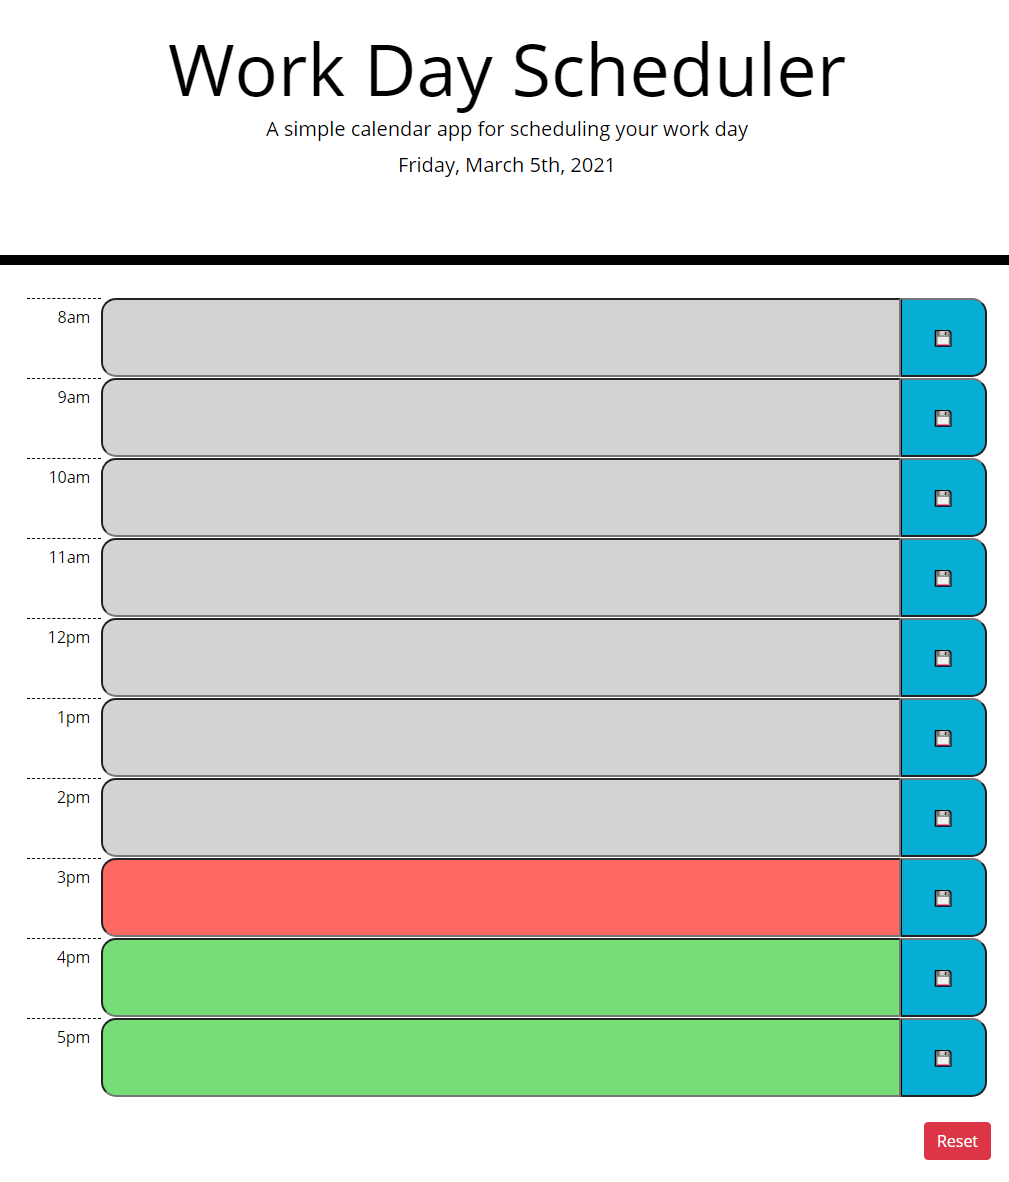
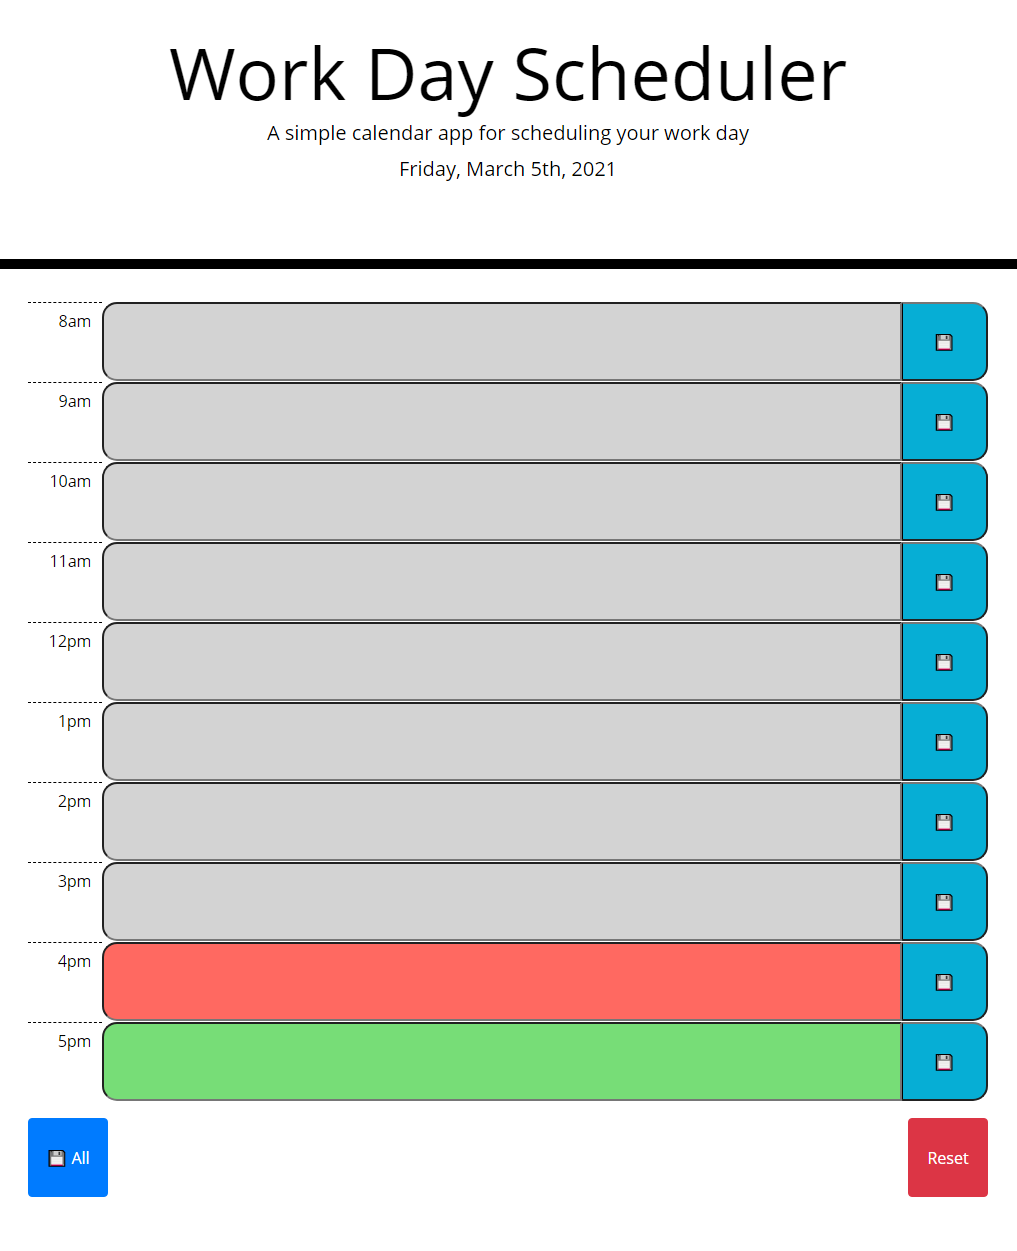
added save all button

Changed region(s): [[0.0, 0.1827, 1.0, 1.0], [0.1536, 0.0305, 0.8295, 0.1523]]

diff --git a/script.js b/script.js
@@ -1,4 +1,4 @@
-var $container = $('.container');
+var $container = $('#timeblock-container');
 //grabs saved schedule from local storage, or creates a new empty schedule
 var schedule = JSON.parse(localStorage.getItem('savedSchedule')) || [
     {
@@ -72,9 +72,9 @@ for (let i = 0; i < schedule.length; i++) {
     newRow.append($("<button>").addClass('saveBtn col').text("💾").attr('data-index', i));
 }
 
-$container.on('click', '.saveBtn', function(e){
-    var saved = $(e.target).siblings().eq(1).val();
-    correctIndex = $(e.target).attr('data-index');
+$container.on('click', '.saveBtn', function(){
+    var saved = $(this).siblings().eq(1).val();
+    var correctIndex = $(this).attr('data-index');
     schedule[correctIndex].appointment = saved;
     localStorage.setItem('savedSchedule', JSON.stringify(schedule))
 })
@@ -134,4 +134,12 @@ $('#reset-button').click(function(){
     ];
     localStorage.setItem('savedSchedule', JSON.stringify(schedule));
     location = location;
+})
+
+$('#save-button').click(function(){
+     var timeBlocks = $('.time-block');
+     for (let i = 0; i < timeBlocks.length; i++) {
+         schedule[i].appointment = timeBlocks[i].value;
+     }
+     localStorage.setItem('savedSchedule', JSON.stringify(schedule));
 })

diff --git a/index.html b/index.html
@@ -28,11 +28,18 @@
       <p class="lead">A simple calendar app for scheduling your work day</p>
       <p id="currentDay" class="lead"></p>
     </header>
-    <div class="container">
+    <div class="container" id="timeblock-container">
       <!-- Timeblocks go here -->
     </div>
 
-    <button id="reset-button" class="btn btn-danger">Reset</button>
+    <br>
+  
+    <div class="container">
+      <div class="row justify-content-between">
+        <button id="save-button" class="btn btn-primary col-1 custom-btn">💾 All</button>
+        <button id="reset-button" class="btn btn-danger col-1 custom-btn">Reset</button>
+      </div>
+    </div>
 
     <script src="https://cdnjs.cloudflare.com/ajax/libs/jquery/3.2.1/jquery.min.js"></script>
     <script src="https://cdnjs.cloudflare.com/ajax/libs/moment.js/2.24.0/moment.min.js"></script>

diff --git a/style.css b/style.css
@@ -71,8 +71,3 @@ textarea{
   font-size: 20px;
   transition: all .3s ease-in-out;
 }
-
-#reset-button {
-  float: right;
-  margin: 25px;
-}

diff --git a/README.md b/README.md
@@ -16,7 +16,7 @@ Using the data from moment.js, the page will color code each row's input area (g
 
 When the user types in an appointment in the input area and then clicks the save icon, the appointment will then stored in local storage to persit between sessions. 
 
-On the bottom right of the page is a button to clear all events from the scheduler.
+On the button of the page are buttons. One will save the contents of every input area and the other will clear the list of appointments. 
 
 ![page-display](./assets/img/page.PNG)
 
